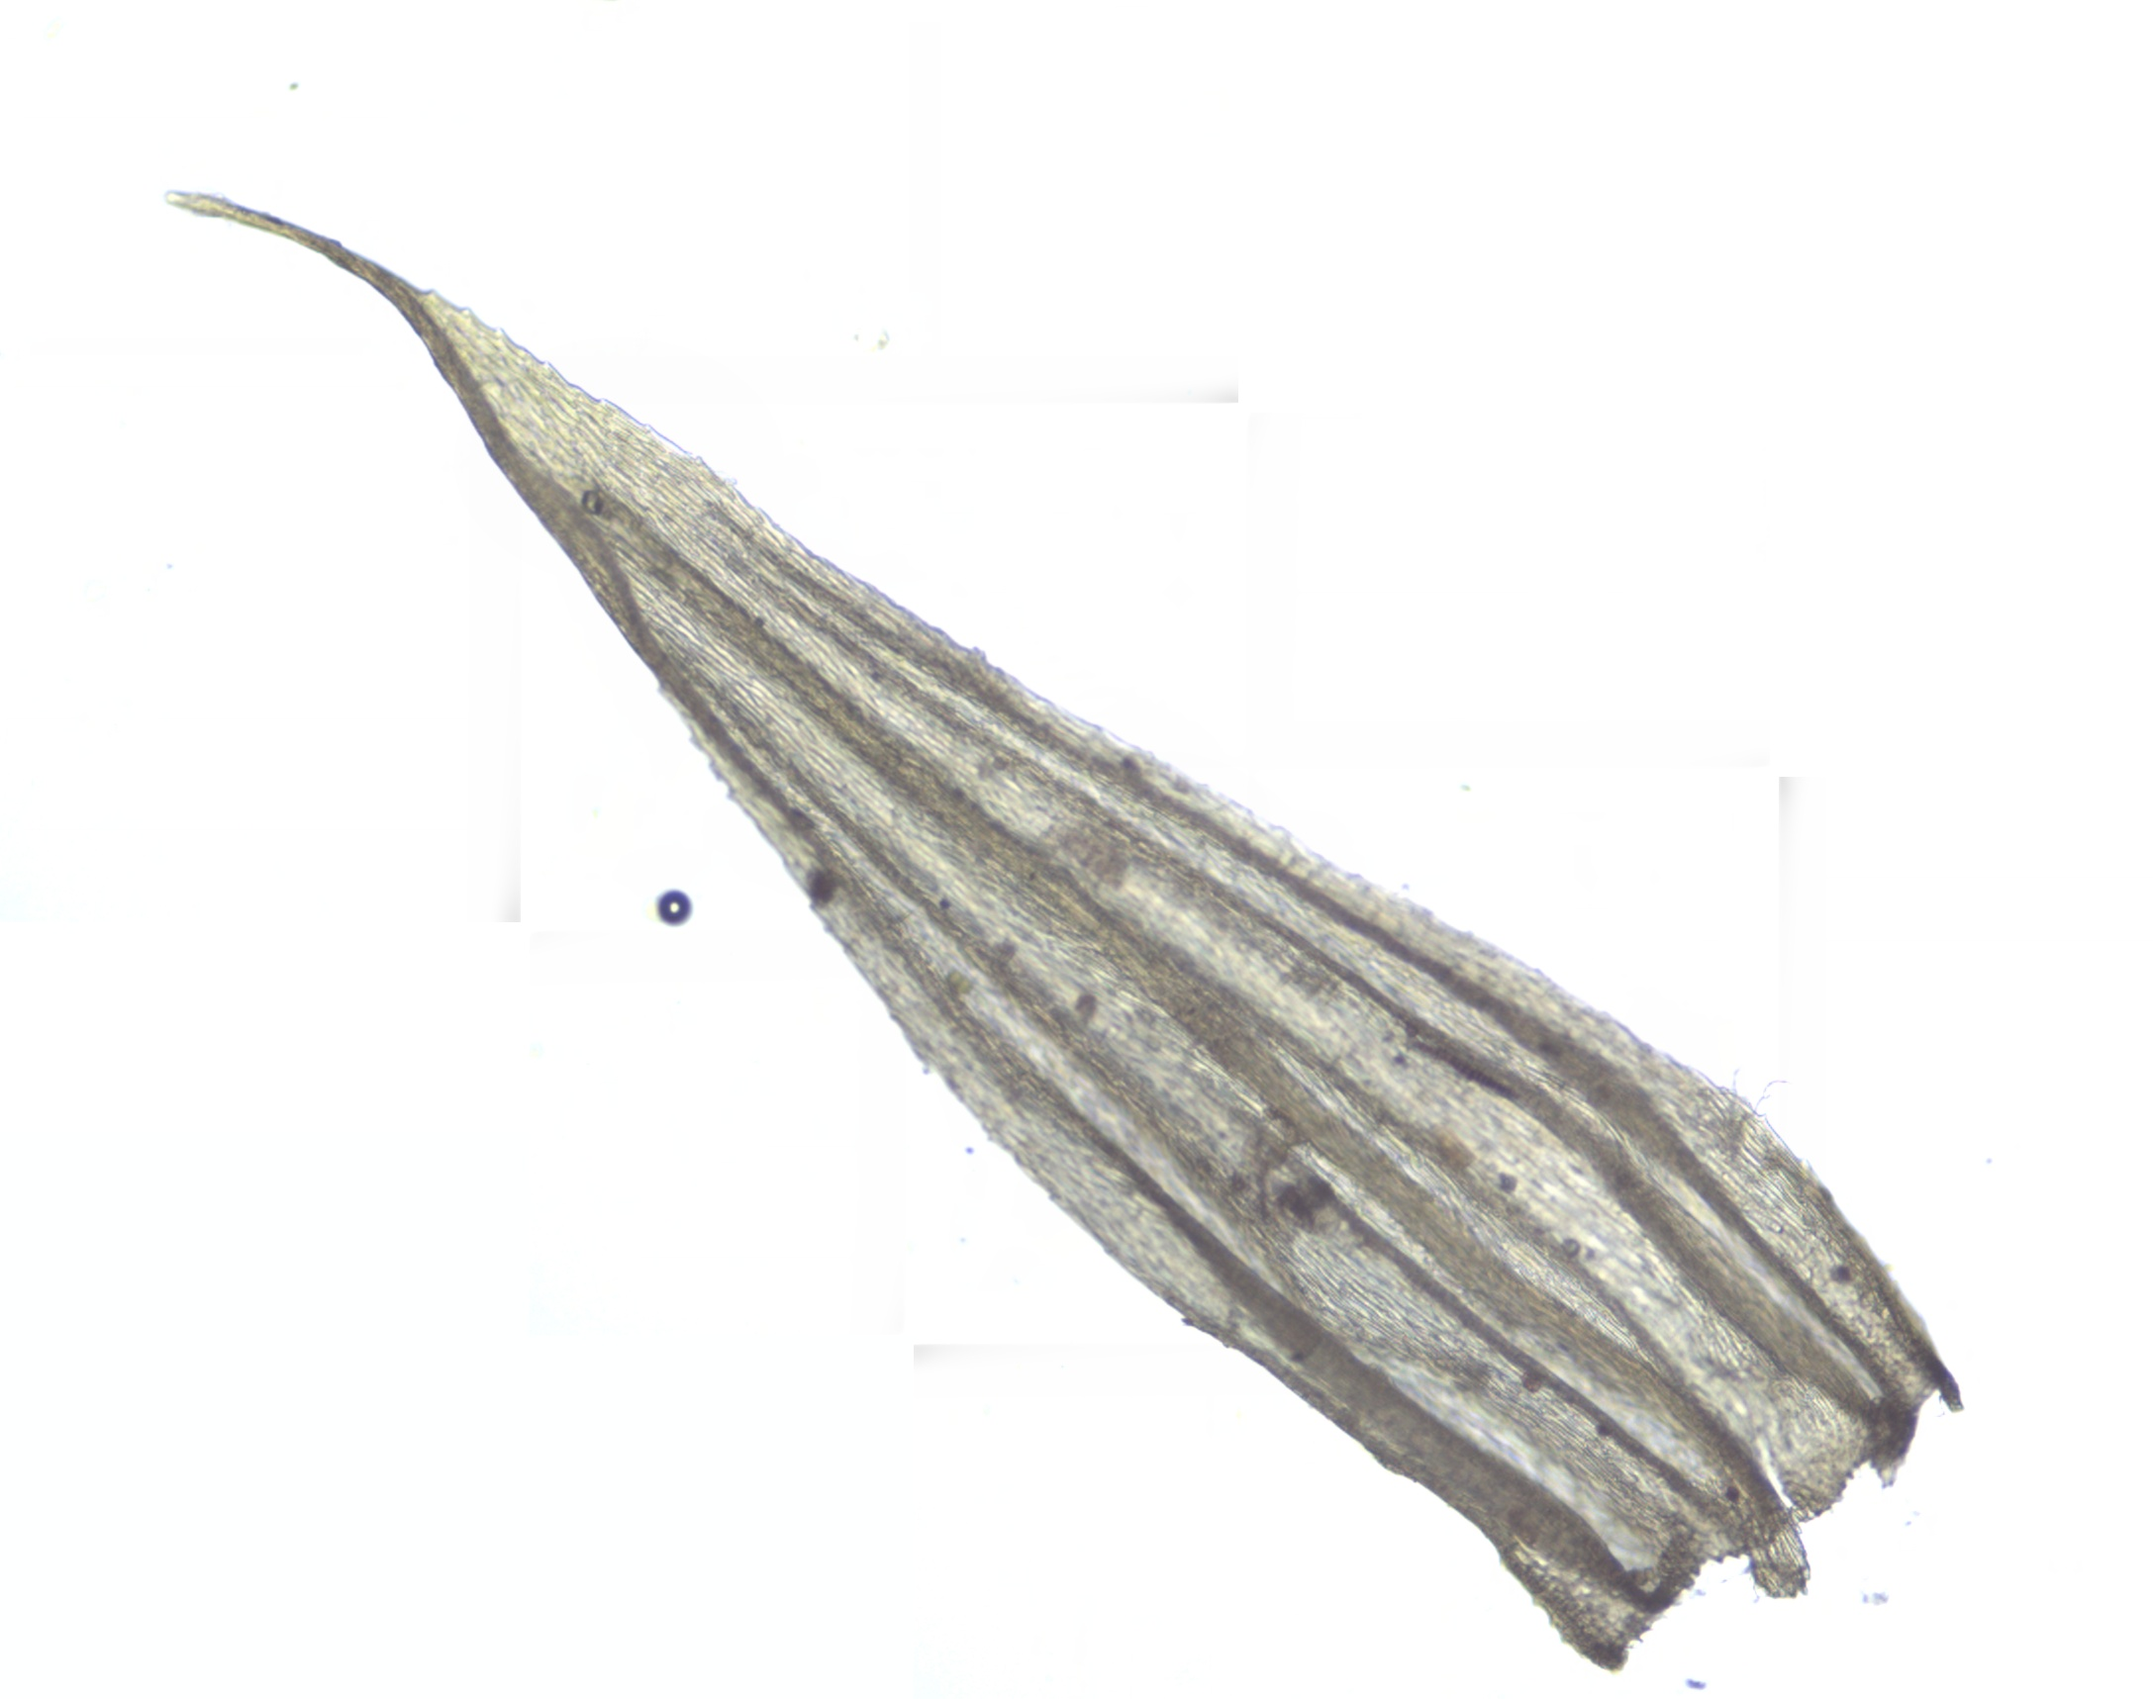
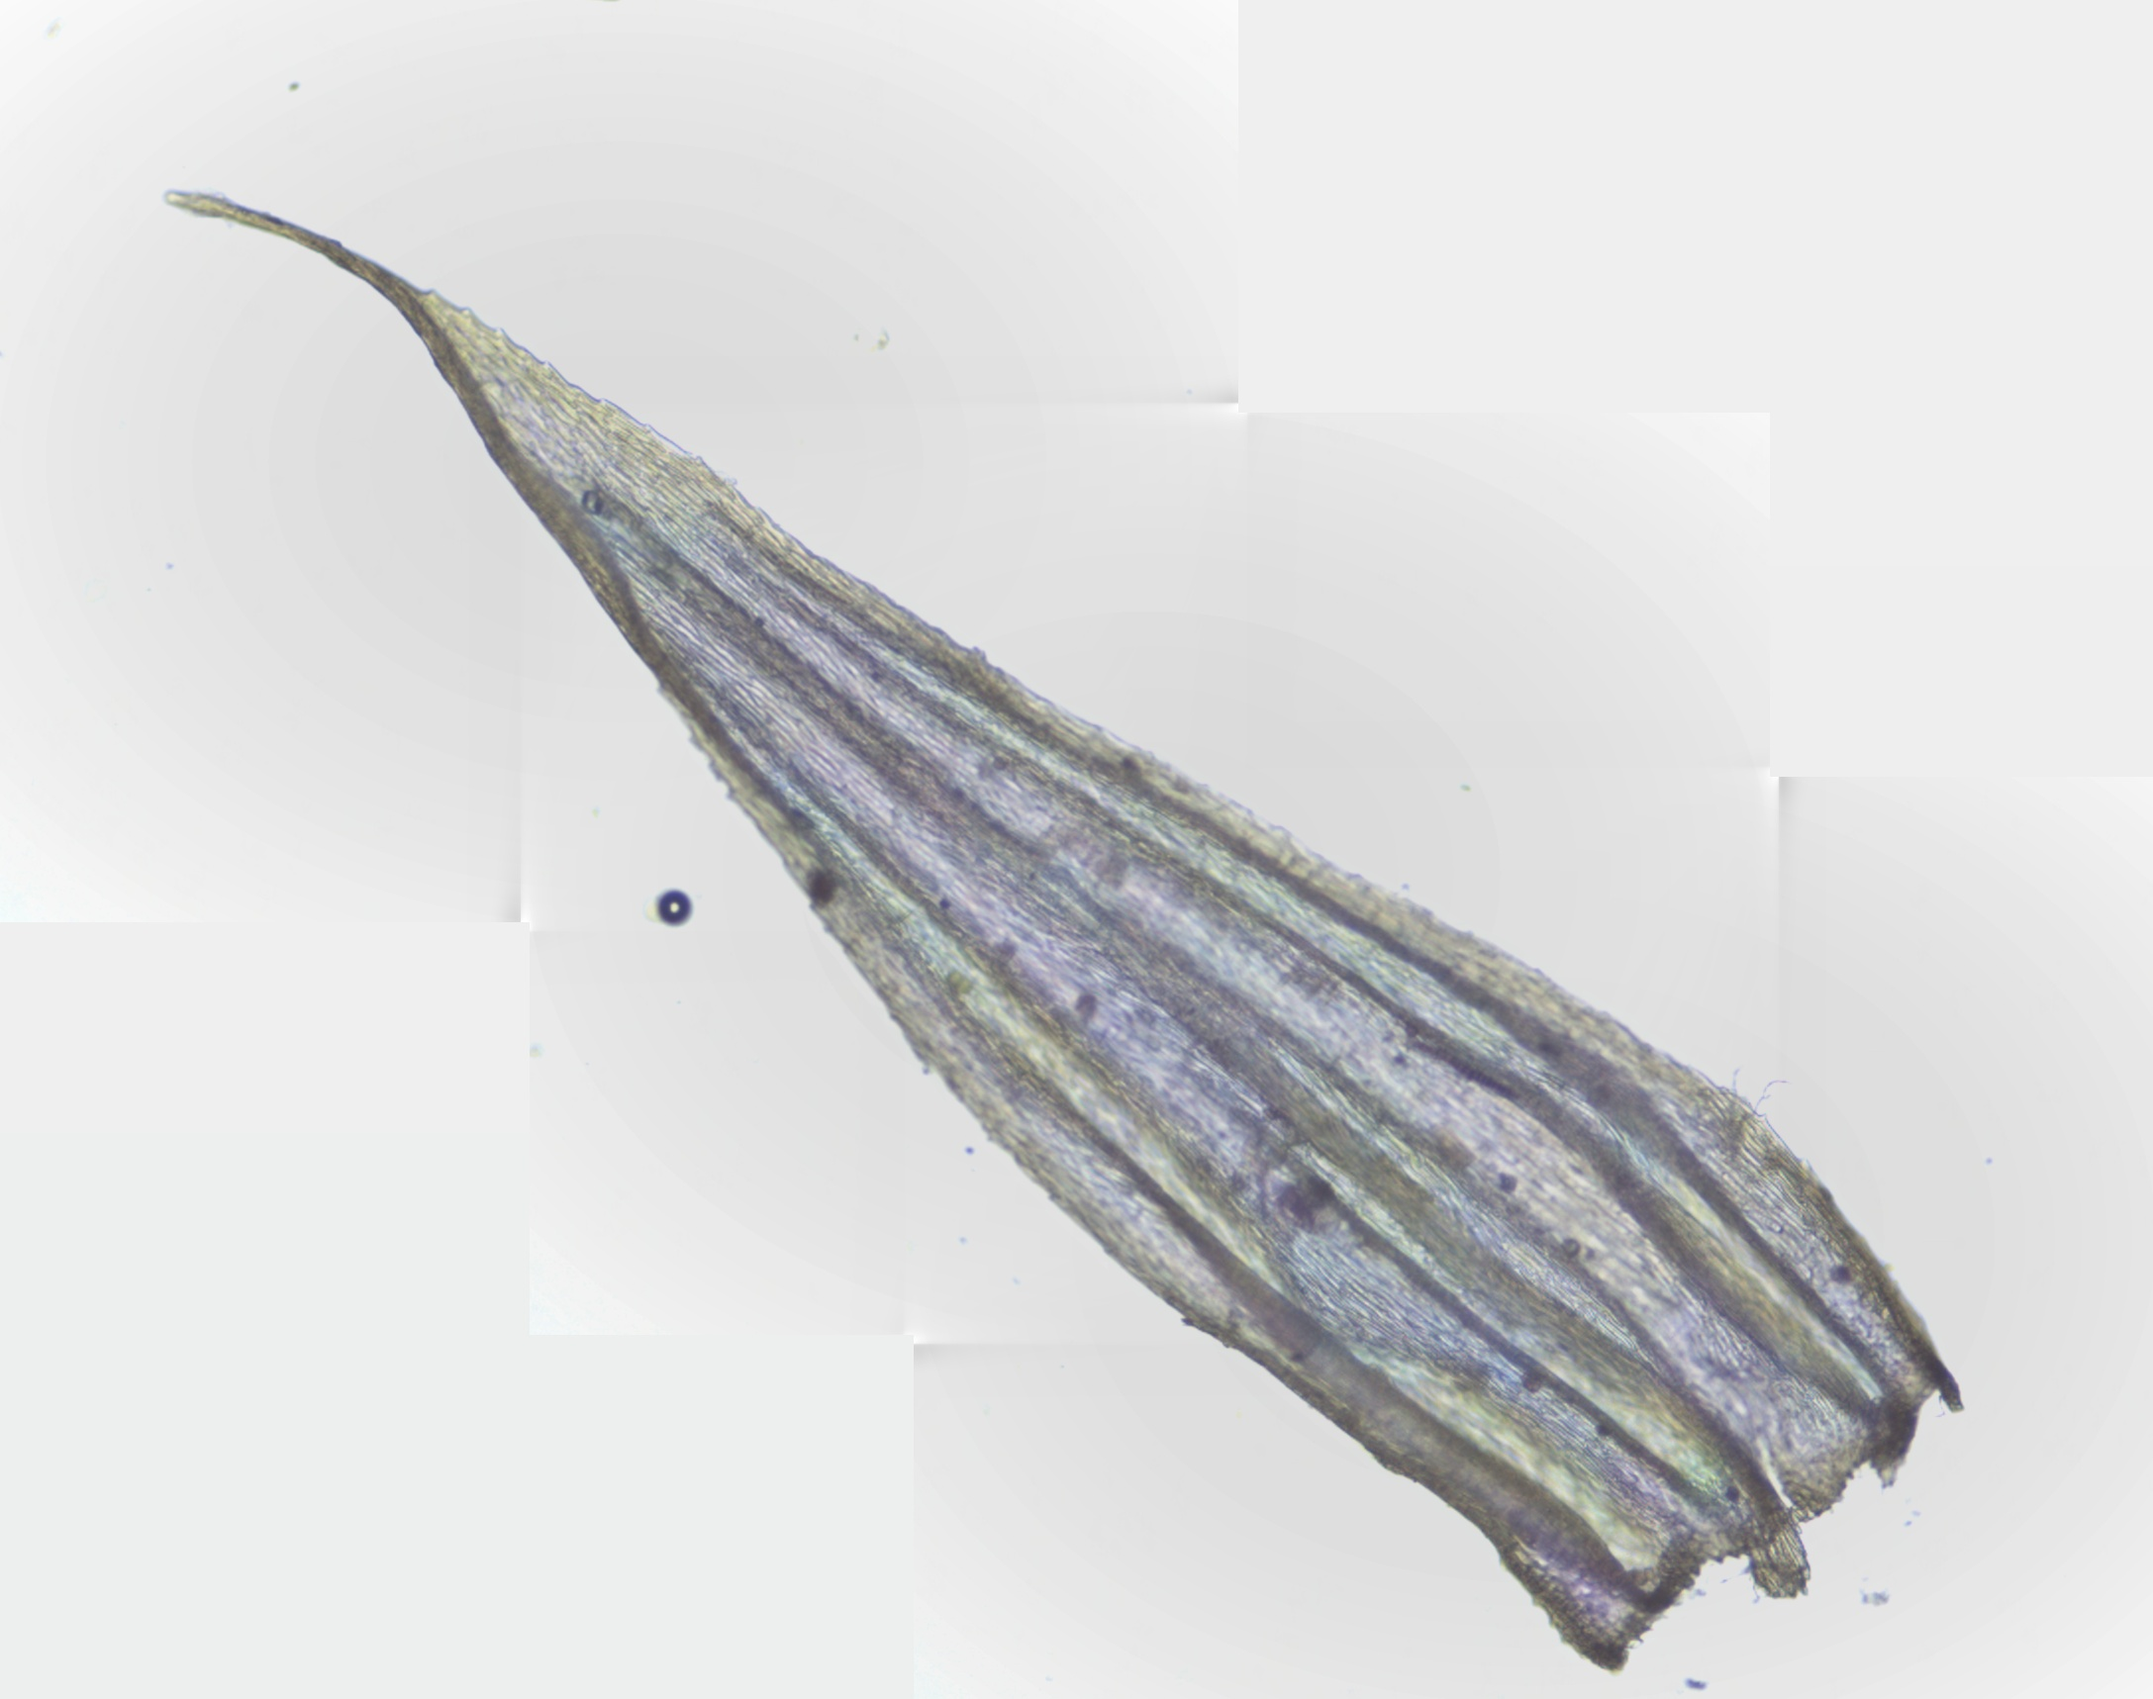
An explanation and tuning guide for flatten_background and flatten_kernel_size have been added to readme.md

diff --git a/readme.md b/readme.md
@@ -53,6 +53,28 @@ detector = sift
 | `flatten_kernel_size` | integer | `61` | Window size (pixels) for background estimation filter. |
 | `detector` | string | `sift` | Feature detector algorithm (`sift`, `orb`, etc.). |
 
+### Background Flattening & Flat-Field Correction
+
+Microscopy, macro photography, and scanner image captures frequently exhibit uneven illumination, optical vignetting (darkened corners/edges), and background gradient variations between adjacent tiles.
+
+- **`flatten_background` (`True` / `False`)**:
+  - **What it does**: Enables pseudo flat-field background correction. It estimates the low-frequency illumination profile/envelope per color channel using morphological dilation (a rolling-ball equivalent) followed by Gaussian smoothing, then normalizes each image tile by dividing by this estimated profile.
+  - **Why it matters**: It prevents visible seam lines and tile "checkerboard" artifacts caused by light falloff and edge shading across overlapping images.
+
+- **`flatten_kernel_size` (integer, default: `61`)**:
+  - **What it does**: Defines the structuring element diameter and Gaussian filter kernel size (in pixels) used to estimate the background envelope. Automatically coerced to an odd integer.
+  - **How it works**: A rolling window of this size must be large enough to span across dark foreground specimen structures so they are filtered out during dilation, leaving behind only the smooth background illumination map.
+
+#### Recommendations for `flatten_kernel_size`
+
+| Use Case / Image Characteristic | Recommended Value | Notes |
+| :--- | :--- | :--- |
+| **Standard Microscopy & Brightfield** (Default) | `51` – `81` (Default: `61`) | Optimal for fine specimen structures (cells, spores, thin tissue, thalli) with bright, mostly uniform background. |
+| **Thick / Large Specimen Features** | `101` – `201+` | If specimen features are wide or dense, increase kernel size so the dilation filter bridges across dark objects rather than sampling them as background. |
+| **Fine Details / Small Tile Resolutions** (< 1-2 MP) | `31` – `51` | Smaller images require a smaller window size to preserve subtle global gradients without over-blurring. |
+| **High-Resolution Tiles** (> 10-20 MP) | `101` – `251` | Scale up the kernel size proportionally to the image pixel dimensions so the filter area matches the physical structure scale. |
+| **Complex Non-Microscopy Panoramas** (Landscape/Indoor) | `flatten_background = False` | Disable if the scene contains broad natural brightness variations across real physical objects rather than optical vignetting. |
+
 ---
 
 ## Directory Structure & Preconditions
